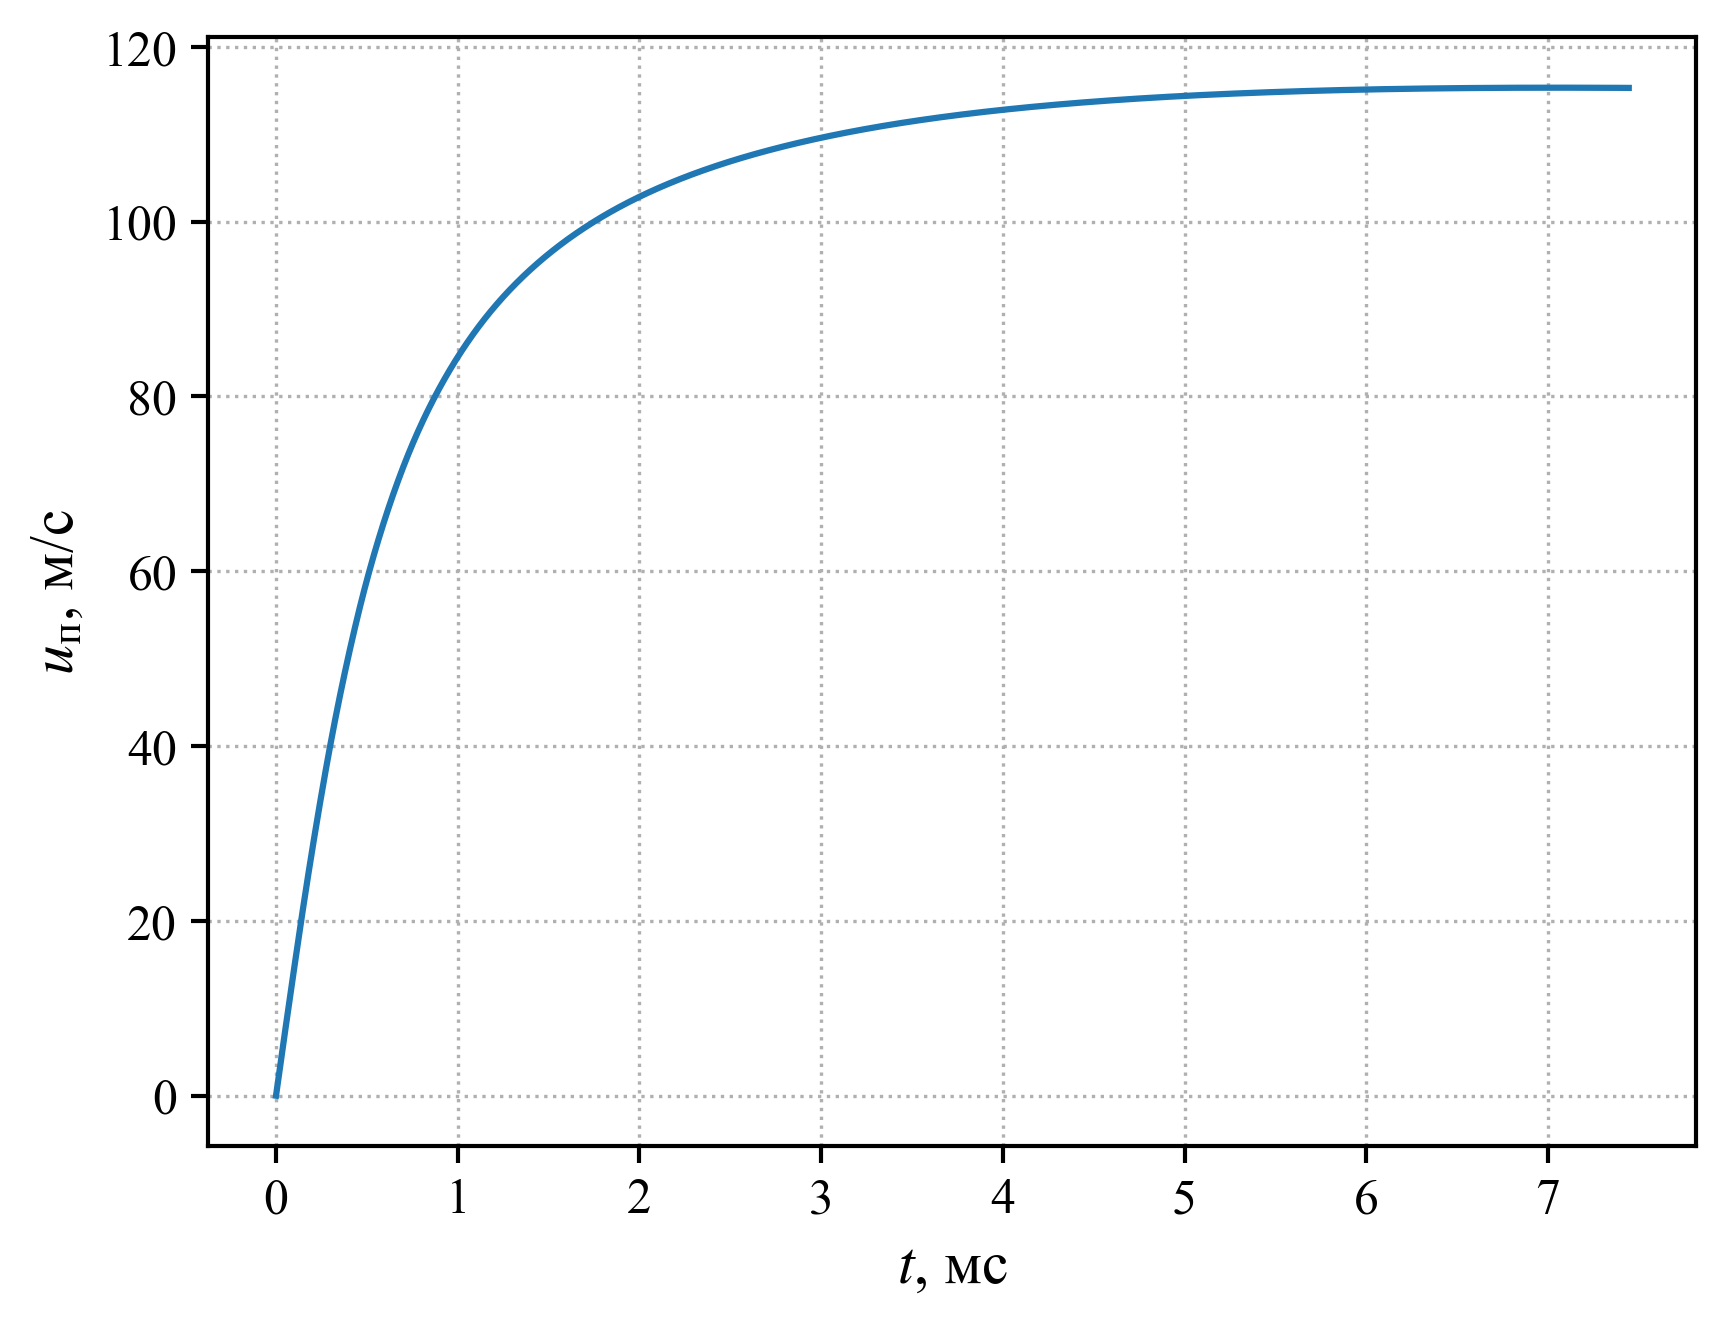
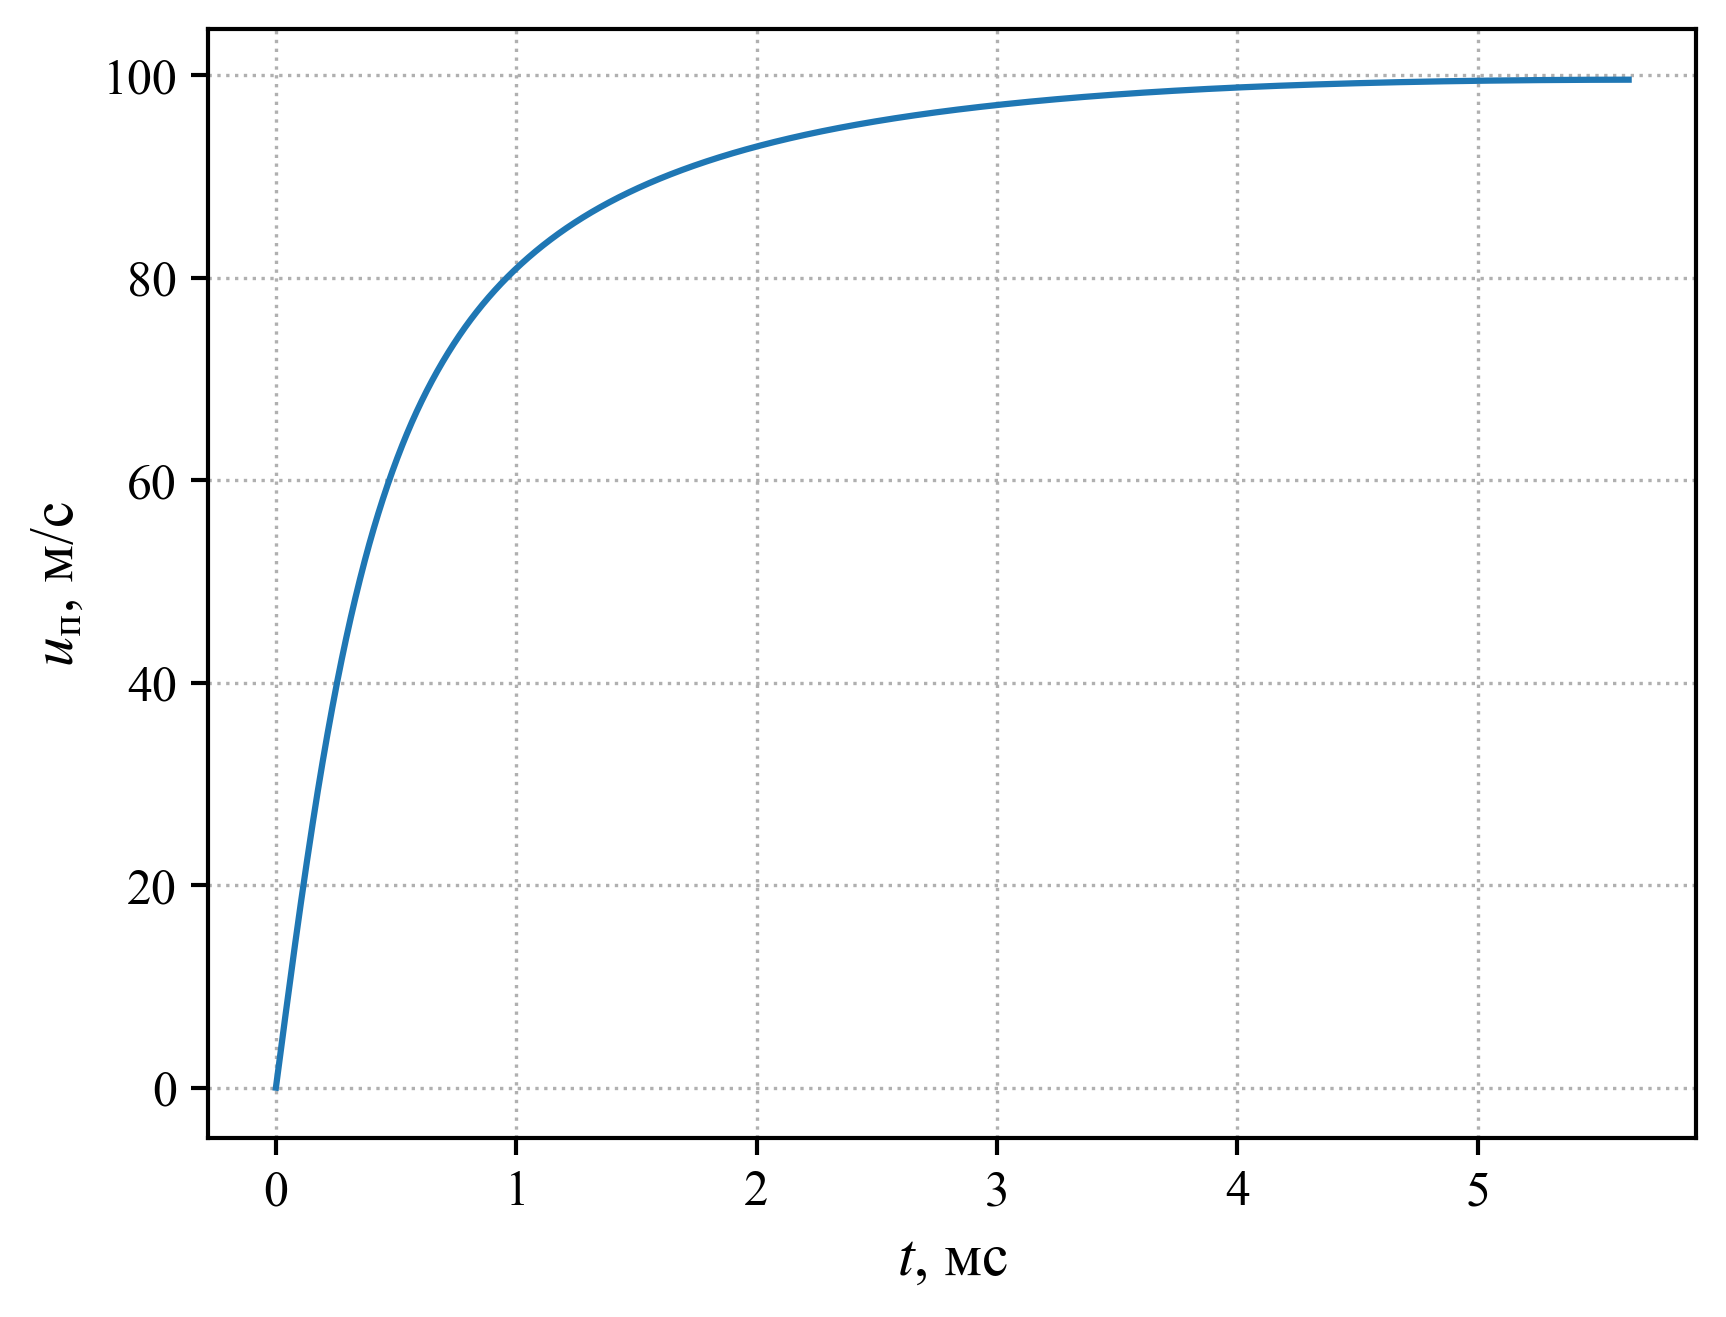
Complete course_work

diff --git a/gasdynamics/course_work/max_eta.py b/gasdynamics/course_work/max_eta.py
@@ -1,3 +1,4 @@
+import numpy as np
 from scipy import optimize as opti
 
 from gasdynamics.course_work.direct import euler as eu
@@ -7,13 +8,19 @@ def optimize(data: dict):
     tube = data["tube"]
     cons = data["constraints"]
 
+    max_tube_len = tube["d"]*cons["n_tube_len"]
     p = 1e5, cons["p_max"]
     T = cons["T_min"], cons["T_max"]
-    x_0 = 0.001, tube["d"]*cons["n_tube_len"]*cons["x_0_ratio"]
-    bounds = [p, T, x_0]
+    x_0 = 0.001, max_tube_len * cons["x_0_ratio"]
+    tube_len = max_tube_len * cons["x_0_ratio"] + 0.01, max_tube_len
+    bounds = [p, T, x_0, tube_len]
     
     sol = opti.differential_evolution(
-        solve, bounds, args=(data,), workers=-1, callback=cb
+        solve, bounds,
+        popsize=32, tol=0.001, args=(data,), workers=-1, callback=cb, disp=True,
+        polish=False, constraints=opti.LinearConstraint(
+            (0, 0, 1/cons["x_0_ratio"], -1), ub=0
+        )
     )
     return sol.x, -sol.fun
 
@@ -24,10 +31,9 @@ def cb(intermediate_result: opti.OptimizeResult):
 
 
 def solve(x: list, data: dict):
-    p_0, T_0, x_0 = x
+    p_0, T_0, x_0, tube_len = x
 
     cons = data["constraints"]
-    tube_len = data["tube"]["d"] * cons["n_tube_len"]
     m_p = data["piston"]["m"]
 
     sol = eu.solve(x_0, m_p, tube_len, p_0, T_0, data)
@@ -44,16 +50,16 @@ def solve(x: list, data: dict):
     
     penalty = 0
     if v_p < v_p_req:
-        penalty += 0.0002*(v_p_req - v_p)**2
-    elif x_0 > x_0_max:
-        penalty += 1000*(x_0 - x_0_max)**2
+        penalty += 0.001*(v_p_req - v_p)**2
+    # print(
+    #     eta, eta - penalty, x_0 / x_p, x_0 <= x_0_max, v_p >= v_p_req, sep="\t"
+    # )
     return -eta + penalty
 
 
 if __name__ == "__main__":
     import json
     import matplotlib.pyplot as plt
-    import numpy as np
     import os
 
 
@@ -70,9 +76,8 @@ if __name__ == "__main__":
     x_store = np.array(x_store)
     eta_store = np.array(eta_store)
 
-    p_0, T_0, x_0 = x
+    p_0, T_0, x_0, tube_len = x
     m_p = data["piston"]["m"]
-    tube_len = x_0 / data["constraints"]["x_0_ratio"]
     sol = eu.solve(x_0, m_p, tube_len, p_0, T_0, data)
 
     results = {

diff --git a/gasdynamics/course_work/max_kin_energy.py b/gasdynamics/course_work/max_kin_energy.py
@@ -9,9 +9,11 @@ def optimize(data: dict):
     p = 1e5, cons["p_max"]
     T = cons["T_min"], cons["T_max"]
     m_p = cons["piston_m_min"], cons["piston_m_max"]
-    bounds = [p, T, m_p]
+    x_p = data["piston"]["x_0"] + 0.01, data["tube"]["d"] * cons["n_tube_len"]
+    bounds = [p, T, m_p, x_p]
     sol = opti.differential_evolution(
-        solve, bounds, args=(data,), workers=-1, callback=cb
+        solve, bounds,
+        popsize=32, args=(data,), workers=-1, callback=cb, disp=True
     )
 
     return sol.x, -sol.fun
@@ -23,16 +25,11 @@ def cb(intermediate_result: opti.OptimizeResult):
 
 
 def solve(x: list, data: dict):
-    p_0, T_0, m_p = x
-
-    cons = data["constraints"]
+    p_0, T_0, m_p, tube_len = x
     x_0 = data["piston"]["x_0"]
-    tube_len = data["tube"]["d"] * cons["n_tube_len"]
-
     sol = eu.solve(x_0, m_p, tube_len, p_0, T_0, data)
     v_p = sol.v_p_store[-1]
     E_kin = 0.5 * m_p * v_p**2
-
     return -E_kin
 
 
@@ -55,8 +52,7 @@ if __name__ == "__main__":
     x_store = np.array(x_store)
     E_kin_store = np.array(E_kin_store)
 
-    p_0, T_0, m_p = x
-    tube_len = data["tube"]["L"]
+    p_0, T_0, m_p, tube_len = x
     x_0 = data["piston"]["x_0"]
     sol = eu.solve(x_0, m_p, tube_len, p_0, T_0, data)
 

diff --git a/gasdynamics/course_work/max_pulse.py b/gasdynamics/course_work/max_pulse.py
@@ -9,9 +9,11 @@ def optimize(data: dict):
     p = 1e5, cons["p_max"]
     T = cons["T_min"], cons["T_max"]
     m_p = cons["piston_m_min"], cons["piston_m_max"]
-    bounds = [p, T, m_p]
+    x_p = data["piston"]["x_0"] + 0.01, data["tube"]["d"] * cons["n_tube_len"]
+    bounds = [p, T, m_p, x_p]
     sol = opti.differential_evolution(
-        solve, bounds, args=(data,), workers=-1, callback=cb
+        solve, bounds,
+        popsize=32, args=(data,), workers=-1, callback=cb, disp=True
     )
 
     return sol.x, -sol.fun
@@ -23,16 +25,11 @@ def cb(intermediate_result: opti.OptimizeResult):
 
 
 def solve(x: list, data: dict):
-    p_0, T_0, m_p = x
-
-    cons = data["constraints"]
+    p_0, T_0, m_p, tube_len = x
     x_0 = data["piston"]["x_0"]
-    tube_len = data["tube"]["d"] * cons["n_tube_len"]
-
     sol = eu.solve(x_0, m_p, tube_len, p_0, T_0, data)
     v_p = sol.v_p_store[-1]
     P = m_p * v_p
-
     return -P
 
 
@@ -56,8 +53,7 @@ if __name__ == "__main__":
     x_store = np.array(x_store)
     P_store = np.array(P_store)
 
-    p_0, T_0, m_p = x
-    tube_len = data["tube"]["L"]
+    p_0, T_0, m_p, tube_len = x
     x_0 = data["piston"]["x_0"]
     sol = eu.solve(x_0, m_p, tube_len, p_0, T_0, data)
 

diff --git a/gasdynamics/course_work/direct/euler.py b/gasdynamics/course_work/direct/euler.py
@@ -27,15 +27,14 @@ def solve(x_0, m_p, tube_len, p_0, T_0, data: dict):
     visc = data["visc"]
     A, B, h = visc["A"], visc["B"], visc["h"]
 
-    v_p_req = data["constraints"]["v_p"]
     t_store = [t]
     q_store = [q[:, 1:-1].copy()]
     p_store = [p[1:-1].copy()]
     x_p_store = [piston_x]
     v_p_store = [piston_v]
 
-    i, i_max = 0, 10_000
-    while piston_x < tube_len and piston_v < v_p_req and i <= i_max:
+    i, i_max = 0, data["maxiter"]
+    while piston_x < tube_len and i <= i_max:
         p = equation_of_state(q, k)
         c = calc_sonic(p, q[0], k)
         dt = calc_time_step(q, dx, c, courant)
